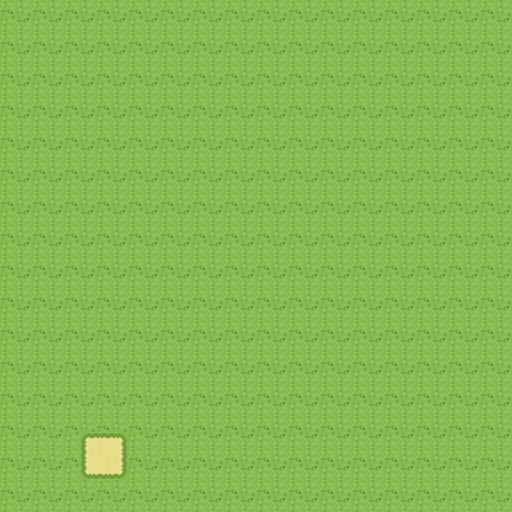
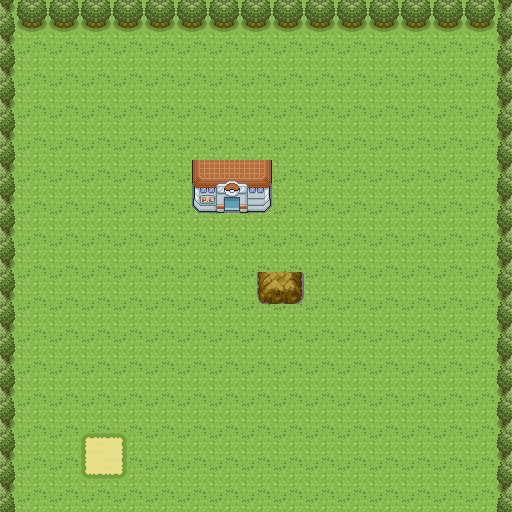
New scrolling

Changed region(s): [[0.0, 0.0, 1.0, 1.0], [0.375, 0.3125, 0.5312, 0.4375], [0.5, 0.5312, 0.5938, 0.5938]]

diff --git a/source/main.c b/source/main.c
@@ -11,7 +11,6 @@
 
 #include <player_gfx.h>
 #include <grass.h>
-#include <center.h>
 #include <centerTop.h>
 
 void setUpScreens(){
@@ -43,9 +42,9 @@ int main(void){
     World w = {0};
 
     // pokemon center hitbox
-    for (int x = 2; x < 7; x++)
+    for (int x = 12; x < 17; x++)
     {
-        for (int y = 2; y < 5; y++)
+        for (int y = 9; y < 12; y++)
         {
             w.grid[y][x] = 1;
         }
@@ -74,13 +73,10 @@ int main(void){
 
     startBgDraw();
     CREATE_BG_GFX(grass);
-    newBackground(&w, 2, &grass, BgType_Text8bpp, BgSize_T_512x512, 9, 3);
-
-    CREATE_BG_GFX(center);
-    newBackground(&w, 1, &center, BgType_Text8bpp, BgSize_T_512x512, 4, 2);
+    newBackground(&w, 1, &grass, BgType_Text8bpp, BgSize_T_512x512, 12, 1);
 
     CREATE_BG_GFX(centerTop);
-    newBackground(&w, 0, &centerTop, BgType_Text8bpp, BgSize_T_512x512, 0, 1);
+    newBackground(&w, 0, &centerTop, BgType_Text8bpp, BgSize_T_512x512, 1, 0);
     endBgDraw();
 
     timerStart(0, ClockDivider_1024, 0, NULL);
@@ -95,14 +91,23 @@ int main(void){
         Held = keysHeld();
         dt = timerElapsed(0);
 
-        // handle walking
-        // TODO: handle walking by scrolling the background instead of moving the player
-        //       (depending on where the player is)
         walk(&w, player, Held);
 
         // this is how to scroll the background
-        w.camera_x = player->x-120;
-        w.camera_y = player->y-80;
+        if(player->x <= 112)
+            w.camera_x = -8;
+        else if(player-> x >= 384)
+            w.camera_x = 264;
+        else
+            w.camera_x = player->x-120;
+
+        if(player->y <= 80)
+            w.camera_y = 0;
+        else if(player->y >= 416)
+            w.camera_y = 336;
+        else
+            w.camera_y = player->y-80;
+
         bgSetScroll(w.bgs[0]->id, w.camera_x, w.camera_y);
         bgSetScroll(w.bgs[1]->id, w.camera_x, w.camera_y);
         bgSetScroll(w.bgs[2]->id, w.camera_x, w.camera_y);

diff --git a/source/object.c b/source/object.c
@@ -85,9 +85,25 @@ void updateObject(Object s){
         hflip = true;
         s.direction = DIR_LEFT;
     }
+
+    int x, y;
+    if(s.x <= 112)
+        x = s.x +8;
+    else if(s.x >= 384)
+        x = s.x -264;
+    else
+        x = 120;
+
+    if(s.y <= 80)
+        y = s.y;
+    else if(s.y >= 416)
+        y = s.y -336;
+    else
+        y = 80;
+
     oamSet(s.screen, // which display
            s.priority, // the oam entry to set
-           120, 80, // x & y location
+           x, y, // x & y location
            1, // priority
            s.id, // palette for 16 color sprite or alpha for bmp sprite
            s.size, // size
